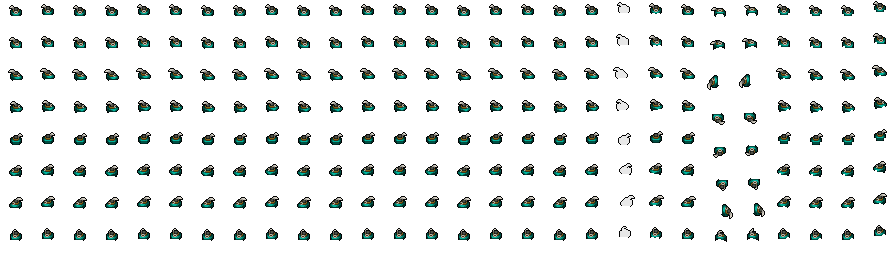
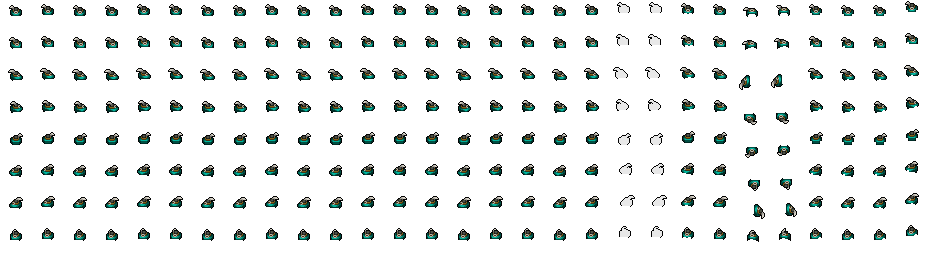
Draw the weapon in hand on everyone, and swing it like the axe
WEAPON-VISIBLE-01 (owner 2026-10-26).
- ActorSprite.wield: the weapon carried at the side, point raised, in all eight
  directions while standing and walking (behind the body facing away, a step's
  bob); hidden lying, sitting, at work and dead. strike(): the blow is the axe's
  swing (throw frames, SWING_POSES) with the weapon in hand, played through
  (the idle reset leaves a strike alone).
- The player carries the weapon in the hand slot and strikes with it; without
  one the old bare sword frames stay.
- Villagers: a guard's or bandit's best weapon is always carried; anyone
  fighting swings theirs (ActorSprite.npc_weapon, view only).
- Multiplayer: public_player and players_list carry the weapon held; a blow is
  sent as "sword" (main.net_anim) and drawn as that player's weapon swung.
- main.gd screenshot panels for the catalogue (gear_sheet_N, weapon_carry,
  weapon_npcs, order, craft, wiki, Pack).
- tools/gear_assets.py: the pack ships RangerHatCyan with 28 frames, one hurt
  frame short, which drew the hat displaced in six directions (seen in the
  gear_sheet_2 screenshot); its frame 19 is repeated to make 29, recorded.

Claude-Session: https://claude.ai/code/session_01Twyxni5CnEyE5LMG3EMiFY

diff --git a/tools/gear_assets.py b/tools/gear_assets.py
@@ -272,8 +272,20 @@ def import_into(prov, record):
         member = V21_DIR + rel
         dest = OUT / "characters" / "layers" / layer / f"{item}.png"
         dest.parent.mkdir(parents=True, exist_ok=True)
-        dest.write_bytes(pz.read(member))
-        record(dest, PUNY_V21, member, "copied unchanged (the colourway the item draws while worn; no recolouring)")
+        img = Image.open(io.BytesIO(pz.read(member)))
+        if img.size == (28 * 32, 256):
+            # the pack ships RangerHatCyan one hurt frame short (28 frames; its frames from 19 on are the others' 20 on):
+            # its frame 19 is repeated, so every frame lands in its column (found by comparing it with RangerHatGreen)
+            img = img.convert("RGBA")
+            out = Image.new("RGBA", (29 * 32, 256))
+            out.paste(img.crop((0, 0, 20 * 32, 256)), (0, 0))
+            out.paste(img.crop((19 * 32, 0, 28 * 32, 256)), (20 * 32, 0))
+            out.save(dest)
+            record(dest, PUNY_V21, member, "frame 19 (the first hurt frame) repeated to make the pack's 29 frames (the shipped sheet "
+                   "has 28); no recolouring")
+        else:
+            dest.write_bytes(pz.read(member))
+            record(dest, PUNY_V21, member, "copied unchanged (the colourway the item draws while worn; no recolouring)")
         style["layers"].setdefault(layer, {})[item] = {"sheet": "res://" + str(dest.relative_to(REPO / "game")), "ramps": []}
         style["worn_layers"][item] = {"layer": layer, "option": item}
     style_path.write_text(json.dumps(style, indent=1) + "\n")
